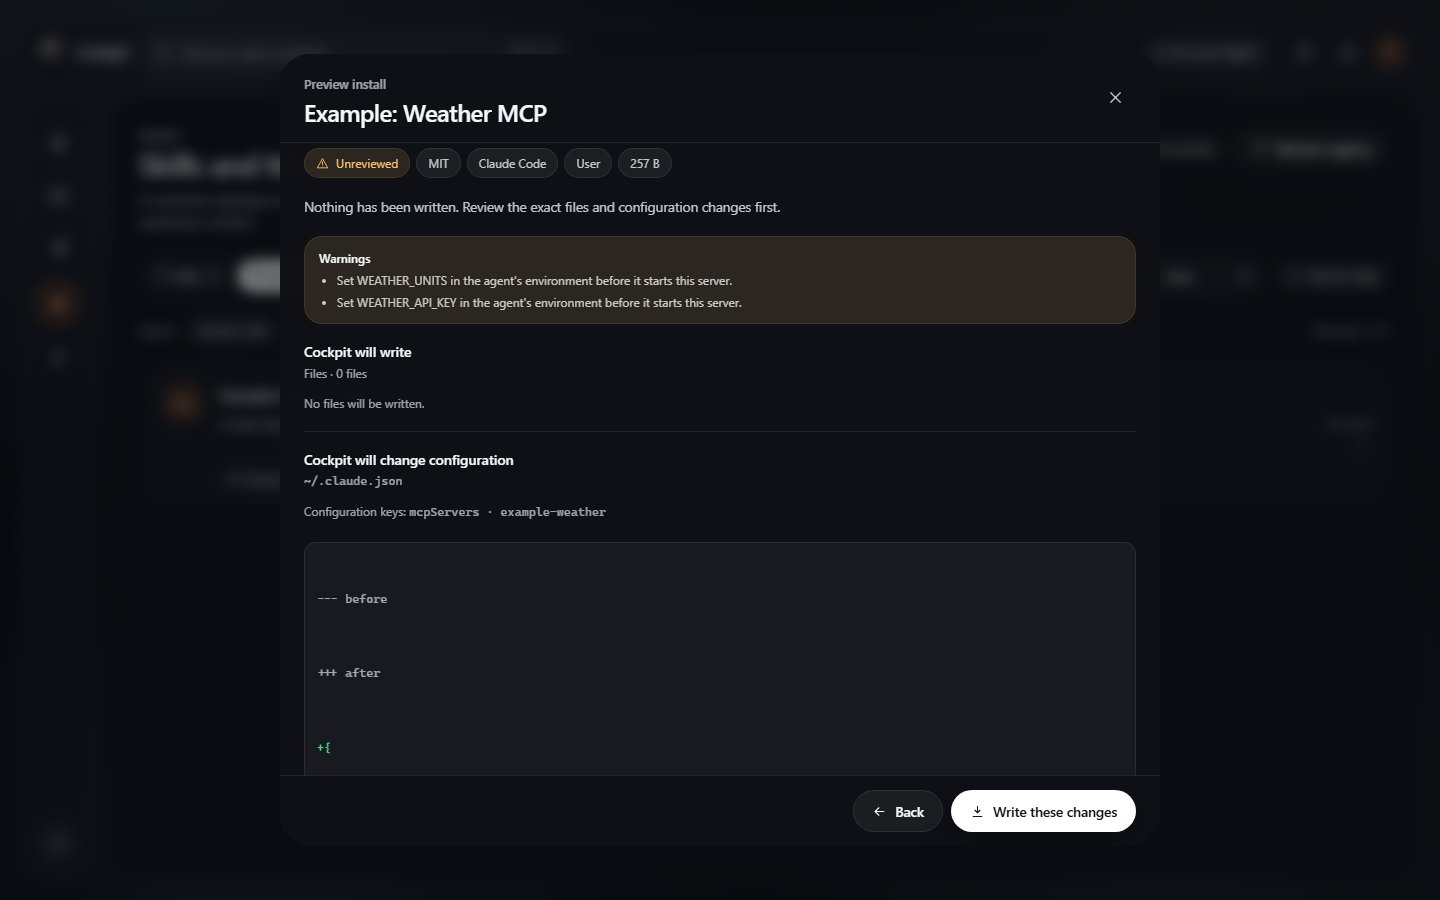
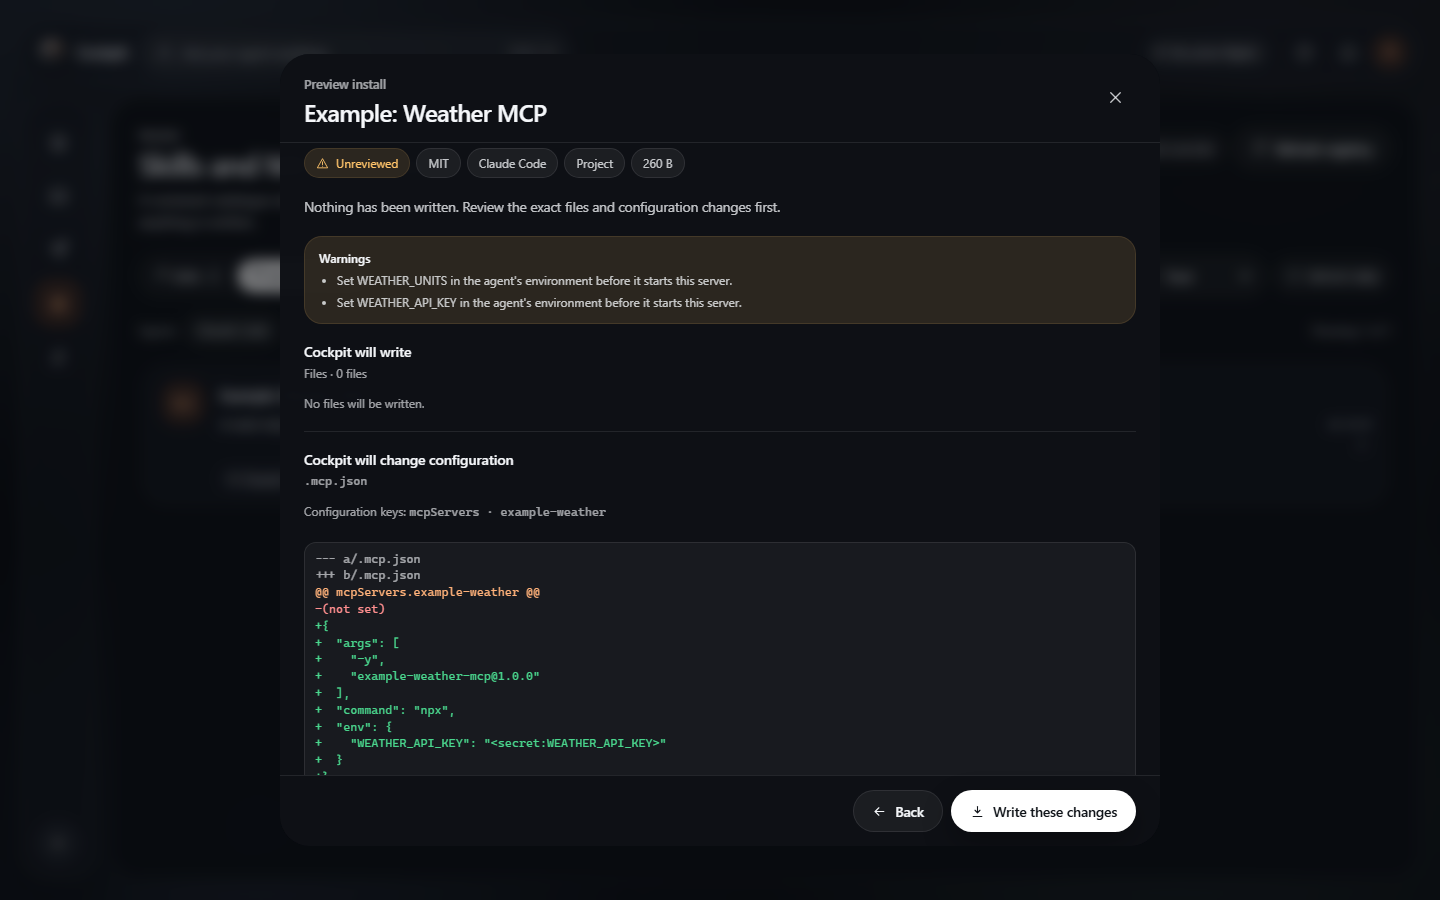
fix: render compact config diffs in the market preview

Changed region(s): [[0.2188, 0.6222, 0.4688, 0.84], [0.4062, 0.1556, 0.4688, 0.1867], [0.2188, 0.5289, 0.2812, 0.56]]

diff --git a/ui/src/lib/screens/MarketScreen.svelte b/ui/src/lib/screens/MarketScreen.svelte
@@ -20,6 +20,7 @@
     UninstallPreview,
   } from '../api/types';
   import { copyText } from '../clipboard';
+  import { diffLines } from '../diff';
   import { formatDate } from '../format';
   import { t, type MessageKey } from '../i18n/i18n.svelte';
   import { toast } from '../toast-store.svelte';
@@ -353,16 +354,6 @@
     if (text === 'Configuration changed on disk') return t('market.attentionConfig');
     if (text === 'Revoked by the registry') return t('market.attentionRevoked');
     return text;
-  }
-
-  function diffLines(text: string): Array<{ tone: string; line: string }> {
-    return text.split('\n').map((line) => {
-      let tone = 'context';
-      if (line.startsWith('+++') || line.startsWith('---')) tone = 'head';
-      else if (line.startsWith('+')) tone = 'add';
-      else if (line.startsWith('-')) tone = 'del';
-      return { tone, line };
-    });
   }
 
   function chooseDefaultTarget(card: MarketCard): void {
@@ -1354,11 +1345,7 @@
                         {:else if file.diff}
                           <details class="market-diff">
                             <summary>{t('market.showDiff')}</summary>
-                            <pre>
-                              {#each diffLines(file.diff) as row}
-                                <span class={`market-diff__line is-${row.tone}`}>{row.line || ' '}</span>
-                              {/each}
-                            </pre>
+                            <pre>{#each diffLines(file.diff) as row}<span class={`market-diff__line is-${row.tone}`}>{row.line || ' '}</span>{/each}</pre>
                           </details>
                         {:else if file.content}
                           <details class="market-diff">
@@ -1381,11 +1368,7 @@
                   <p class="market-muted">
                     {t('market.configKeys')}: <span class="market-mono">{preview.config.keyPath.join(' · ')}</span>
                   </p>
-                  <pre class="market-diff-block">
-                    {#each diffLines(preview.config.diff) as row}
-                      <span class={`market-diff__line is-${row.tone}`}>{row.line || ' '}</span>
-                    {/each}
-                  </pre>
+                  <pre class="market-diff-block">{#each diffLines(preview.config.diff) as row}<span class={`market-diff__line is-${row.tone}`}>{row.line || ' '}</span>{/each}</pre>
                 </section>
               {/if}
 

diff --git a/ui/tests/unit/diff.test.ts b/ui/tests/unit/diff.test.ts
@@ -1,0 +1,24 @@
+import { describe, expect, it } from 'vitest';
+import { diffLines } from '../../src/lib/diff';
+
+describe('diffLines', () => {
+  it('normalizes CRLF input and drops the trailing newline row', () => {
+    const rows = diffLines(
+      '--- a/.claude.json\r\n+++ b/.claude.json\r\n@@ mcpServers.demo @@\r\n-old\r\n+new\r\n',
+    );
+    expect(rows.map((row) => row.tone)).toEqual(['head', 'head', 'hunk', 'del', 'add']);
+    expect(rows.map((row) => row.line)).toEqual([
+      '--- a/.claude.json',
+      '+++ b/.claude.json',
+      '@@ mcpServers.demo @@',
+      '-old',
+      '+new',
+    ]);
+    for (const row of rows) expect(row.line).not.toContain('\r');
+  });
+
+  it('keeps a blank context line inside the diff', () => {
+    const rows = diffLines('--- a\r\n+++ b\r\n@@ key @@\r\n same\r\n\r\n+new\r\n');
+    expect(rows.map((row) => row.line)).toEqual(['--- a', '+++ b', '@@ key @@', ' same', '', '+new']);
+  });
+});

diff --git a/ui/src/lib/diff.ts b/ui/src/lib/diff.ts
@@ -1,0 +1,25 @@
+export type DiffTone = 'head' | 'hunk' | 'add' | 'del' | 'context';
+
+export interface DiffRow {
+  tone: DiffTone;
+  line: string;
+}
+
+/**
+ * Split a unified diff into rows for rendering. CRLF input is normalized so a
+ * stray carriage return never reaches the DOM, and the trailing newline of a
+ * diff does not produce an extra empty row.
+ */
+export function diffLines(text: string): DiffRow[] {
+  const normalized = text.replace(/\r\n?/g, '\n');
+  const rows: DiffRow[] = normalized.split('\n').map((line) => {
+    let tone: DiffTone = 'context';
+    if (line.startsWith('+++') || line.startsWith('---')) tone = 'head';
+    else if (line.startsWith('@@')) tone = 'hunk';
+    else if (line.startsWith('+')) tone = 'add';
+    else if (line.startsWith('-')) tone = 'del';
+    return { tone, line };
+  });
+  if (rows.length > 0 && rows[rows.length - 1].line === '') rows.pop();
+  return rows;
+}

diff --git a/ui/src/app.css b/ui/src/app.css
@@ -7307,15 +7307,16 @@ html[data-glass-reason='reduced-transparency'] .panel {
 .market-diff-block {
   max-height: 260px;
   margin-top: 7px;
-  padding: 10px 12px;
+  padding: 8px 10px;
   overflow: auto;
+  overscroll-behavior: contain;
   border: 1px solid var(--hairline);
   border-radius: var(--radius-sm);
   background: var(--inset-bg);
   color: var(--text-soft);
   font-family: var(--font-mono);
   font-size: max(var(--text-min), calc(10.5px * var(--font-scale)));
-  line-height: 1.55;
+  line-height: 1.4;
   white-space: pre;
 }
 
@@ -7338,6 +7339,10 @@ html[data-glass-reason='reduced-transparency'] .panel {
 
 .market-diff__line.is-head {
   color: var(--text-faint);
+}
+
+.market-diff__line.is-hunk {
+  color: var(--accent-ink);
 }
 
 .market-command {
